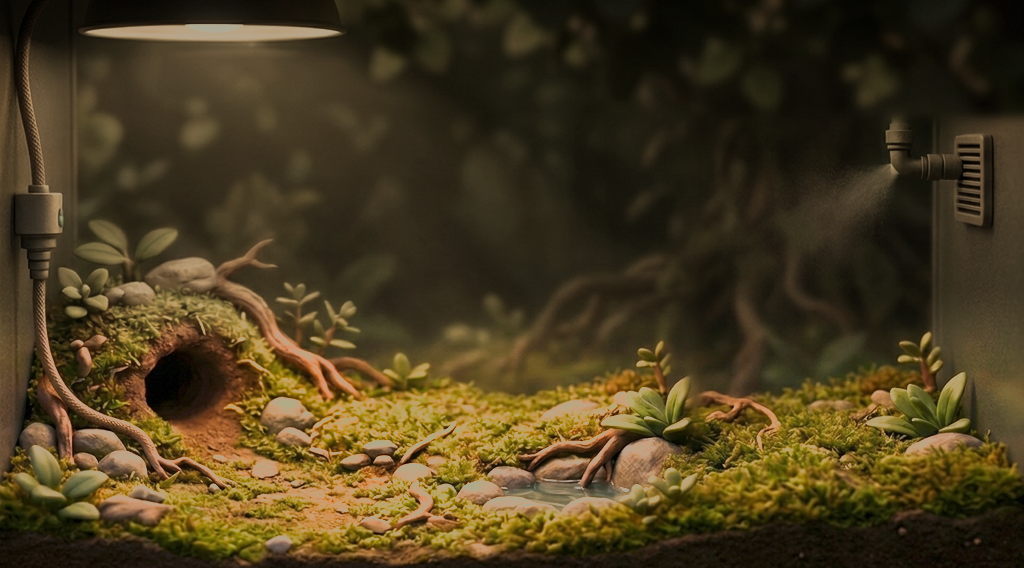
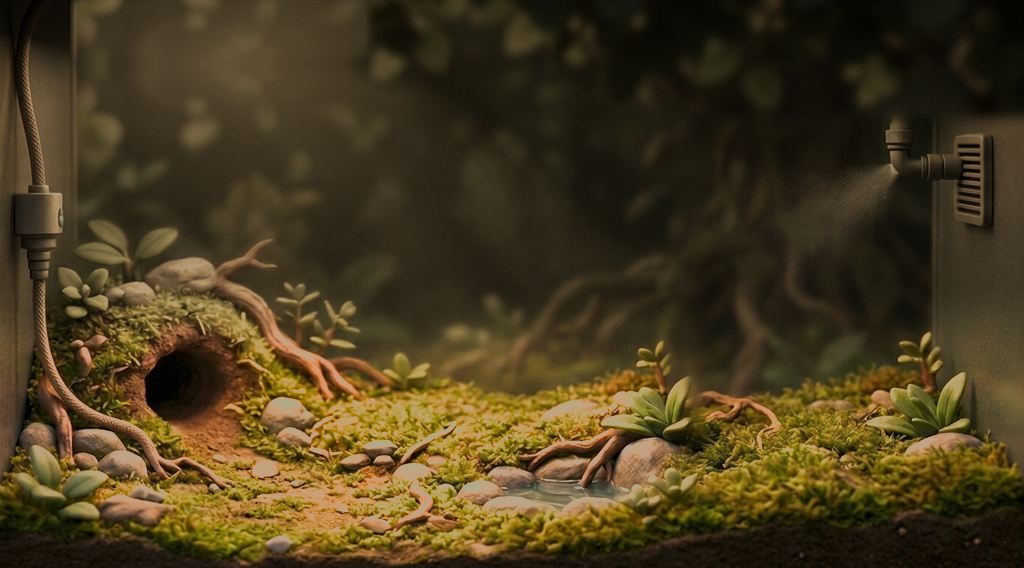
Pods masters pass 121: Idle's night, the lamp hood painted out

Changed region(s): [[0.0625, 0.0, 0.375, 0.0898]]

diff --git a/art/station-masters/pods/tools/nightrepaint.py b/art/station-masters/pods/tools/nightrepaint.py
@@ -14,6 +14,16 @@ def cut(path, w, h):
 man = json.load(open("slices/manifest.json")); rep = {}
 for n, src, w, h, gm, ramp, what in (("idle-vivarium-night-1024x568", "idle-night-repaint", 1024, 568, 330, 90, "Idle's Vivarium by night: a Pro repaint of the signed Idle day under the device's grow lamp dimmed to a low warm glow (the owner-approved repaint of Oct 10; the first night, vivarium-night-r2, is withdrawn)"), ("home-glass-night-640x488", "glass-night-repaint", 640, 488, 268, 88, "Home's glass by night: a Pro repaint of the signed glass day under the dimmed grow lamp (the owner-approved repaint of Oct 10)")):
     im, d = night_dist(cut(f"source/raw/{src}.jpg", w, h), gm, ramp, 0, bg_target=17.0, pool_cap=True, rim_scale=1.0, ground_exact=35.0, bloom=(70.0, 0.0), knee_p=(58.0, 11.5, 8.0)); rep[n] = d
+    if n.startswith("idle"):
+        # the art director's return on pass 119 (the repaint adds a grow-lamp hood at the top left that the day, dawn and dusk do not have): the hood and its lit rim are painted out into the background by hand: the box x 74-365, y 0-64 (the cord at the left edge, x under 75, is kept) is rebuilt from the clean background around it (a normalised multi-scale blur of the pixels under and beside it, sigma 4, 10, 24, plus the picture's own grain), feathered 5 px; the warm light the lamp casts below it is kept
+        a_ = np.asarray(im).astype(float); H_, W_, _ = a_.shape; hole = np.zeros((H_, W_), bool); hole[0:64, 74:366] = True
+        def gb(x, sg):
+            fy = np.fft.fftfreq(x.shape[0])[:, None]; fx = np.fft.rfftfreq(x.shape[1])[None, :]; return np.fft.irfft2(np.fft.rfft2(x) * np.exp(-2 * (np.pi * sg) ** 2 * (fx ** 2 + fy ** 2)), x.shape)
+        fill = a_.copy(); fill[0:64] = a_[127:63:-1]                      # the rows 64-127 of the picture just below, mirrored about y 63.5: the background's own foliage and tone continue upward (the cord, x under 74, and the wall are kept)
+        # the mirrored rows are matched to the rows under the hole's lower edge: a per-column offset, smoothed, taken out so there is no step
+        edge = a_[64:70, :].mean(0) - fill[58:64, :].mean(0); edge = np.stack([gb(np.repeat(edge[None, :, c], 8, 0), 6.0)[0] for c in range(3)], -1); fill[0:64] = fill[0:64] + edge[None, :, :] * np.linspace(0.2, 1.0, 64)[:, None, None]
+        rng = np.random.default_rng(31); grain = np.zeros_like(a_); fm = np.clip(gb(hole.astype(float), 6.0) * 1.8, 0, 1)[..., None]; fm[:, :70] = 0
+        a_ = a_ * (1 - fm) + (fill + grain) * fm; im = Image.fromarray(a_.clip(0, 255).astype(np.uint8))
     im.save(f"slices/{n}.png", optimize=True)
     man[n] = {"size": [w, h], "rect": None, "src": f"source/raw/{src}.jpg (gemini-3-pro-image)", "made": what + ", centre-cut and reduced with Lanczos, then regraded by hand within the night targets (background about 17, ground 35, at most 3 percent above L* 70) (pass 119)", "sha256": hashlib.sha256(open(f"slices/{n}.png", "rb").read()).hexdigest()}
 json.dump(man, open("slices/manifest.json", "w"), indent=1); print(json.dumps(rep))

diff --git a/art/station-masters/pods/tools/status.py b/art/station-masters/pods/tools/status.py
@@ -38,7 +38,7 @@ AD_RECORDS = {
  "bud-ready-front-128x160": ('new', None, "pass 120: the bean remapped by hand row by row onto a 112x140 ellipse (bottom y 152, centred x 64; no waist, the shading kept), late, ready, front, cracks and bud-small re-cut from it; the ready shape (a bark placeholder at its 112x112 box, multiplied at 45 percent inside the bean) shows through the skin in the proof; awaiting the art director's judgement (not signed)"),
  "bud-crack-1-128x160": ('new', None, "pass 120: the bean remapped by hand row by row onto a 112x140 ellipse (bottom y 152, centred x 64; no waist, the shading kept), late, ready, front, cracks and bud-small re-cut from it; the ready shape (a bark placeholder at its 112x112 box, multiplied at 45 percent inside the bean) shows through the skin in the proof; awaiting the art director's judgement (not signed)"),
  "bud-crack-2-128x160": ('new', None, "pass 120: the bean remapped by hand row by row onto a 112x140 ellipse (bottom y 152, centred x 64; no waist, the shading kept), late, ready, front, cracks and bud-small re-cut from it; the ready shape (a bark placeholder at its 112x112 box, multiplied at 45 percent inside the bean) shows through the skin in the proof; awaiting the art director's judgement (not signed)"),
- "idle-vivarium-night-1024x568": ('new', None, "returned (art director) at 1x: L* 24.9, key R-B 47, sat 58, 0.0 percent above L* 70, background 17.6, ground 35.0 all pass and it reads as night; but the repaint adds a grow-lamp hood at the top left that the day, dawn and dusk do not have, so Idle's light change would make an object appear; paint the hood and its rim out into the background by hand, keep its light"),
+ "idle-vivarium-night-1024x568": ('new', None, "pass 121: the grow-lamp hood and its lit rim painted out into the background by hand (the rows below mirrored up, matched at the seam, feathered), the light kept; the glass night and the bed (signed) untouched; awaiting the art director's judgement (not signed)"),
  "home-glass-night-640x488": ('signed', 'art director, verdict (2cc0e62f)', 'signed (art director) at 1x: L* 25.6, key R-B 46, sat 51, 0.0 percent above L* 70, R above B, background 17.9, ground 35.0, against the revised night rule (mean 24-28, bg 12-18, ground 30-36); the Pro night repaint of the signed glass day, the composition kept'),
  "home-bed-night-192x56": ('signed', 'art director, verdict (2cc0e62f)', 'signed (art director) at 1x: L* 28.1, key R-B 80, sat 78 against its glass night 25.6/46 (limits: L* +3, R-B +40)'),
  "leaf-empty-8x12": ('signed', 'art director, verdict (d09acb12; palette and tick fixes)', "signed (art director): the small leaf's outline recoloured to bevel #565c63 (the Create spec's empty small leaf), palette-exact, 36 px"),

diff --git a/art/station-masters/pods/README.md b/art/station-masters/pods/README.md
@@ -132,7 +132,7 @@ Each slice is named by the register id it replaces (`room`, `ring`, `page`, `tra
 | `idle-vivarium-dawn-1024x568` | 1024×568 |  | signed (art director, verdict (d09acb12)): signed (art director) at 1x: L* 40.5, key R-B 37, sat 33 against the dawn rule (key R-B >= 35, L* 38-42); day 43.1/72/48 | Idle's Vivarium by dawn (the owner's decision of Oct 10: the Vivarium gets a dawn, 06:00 to 06:59): a Pro edit of the signed day picture (low cool-gold light from the left, a soft mist over the water and moss, dew on the leaves; paler, cleaner and cooler than dusk; nothing glowing), cut like the others, the canopy seams blended by hand (pass 104); graded and given a gold tint by hand (tools/dawntint.py: the lit pixels warmed, the level set to a mean L* of 40.5) |
 | `idle-vivarium-day-1024x568` | 1024×568 |  | signed (art director, Idle verdict (62bbd883)): Idle's Vivarium by light, seams softened in pass 96; signed at 1x: L* 43.1, key R-B 72, sat 48 (the day reference) | Idle's Vivarium by day: a Pro painting of the vivarium alone (canopy band on top, ground band with burrow, water, stones and moss, feed line, mister and vent at the edges, no creatures), cropped to 1024:568 and reduced with Lanczos (pass 94) |
 | `idle-vivarium-dusk-1024x568` | 1024×568 |  | signed (art director, Idle verdict (62bbd883)): Idle's Vivarium by light, seams softened in pass 96; signed at 1x: L* 40.1, key R-B 74, sat 56 (the dusk reference) | Idle's Vivarium by dusk: a Pro painting of the vivarium alone (canopy band on top, ground band with burrow, water, stones and moss, feed line, mister and vent at the edges, no creatures), cropped to 1024:568 and reduced with Lanczos (the day picture's edit: dusk is warmer and lower) (pass 94) |
-| `idle-vivarium-night-1024x568` | 1024×568 |  | new: returned (art director) at 1x: L* 24.9, key R-B 47, sat 58, 0.0 percent above L* 70, background 17.6, ground 35.0 all pass and it reads as night; but the repaint adds a grow-lamp hood at the top left that the day, dawn and dusk do not have, so Idle's light change would make an object appear; paint the hood and its rim out into the background by hand, keep its light | Idle's Vivarium by night: a Pro repaint of the signed Idle day under the device's grow lamp dimmed to a low warm glow (the owner-approved repaint of Oct 10; the first night, vivarium-night-r2, is withdrawn), centre-cut and reduced with Lanczos, then regraded by hand within the night targets (background about 17, ground 35, at most 3 percent above L* 70) (pass 119) |
+| `idle-vivarium-night-1024x568` | 1024×568 |  | new: pass 121: the grow-lamp hood and its lit rim painted out into the background by hand (the rows below mirrored up, matched at the seam, feathered), the light kept; the glass night and the bed (signed) untouched; awaiting the art director's judgement (not signed) | Idle's Vivarium by night: a Pro repaint of the signed Idle day under the device's grow lamp dimmed to a low warm glow (the owner-approved repaint of Oct 10; the first night, vivarium-night-r2, is withdrawn), centre-cut and reduced with Lanczos, then regraded by hand within the night targets (background about 17, ground 35, at most 3 percent above L* 70) (pass 119) |
 | `leaf-empty-16x20` | 16×20 |  | signed (art director, verdict (d09acb12; palette and tick fixes)): signed (art director): the leaf's outline recoloured to metal #8a947b (the Incubator spec's empty leaf), palette-exact, 75 px | the leaf, empty, hand-pixelled 16x20: one ovate pointed leaf leaning about 40 degrees clockwise (the tip at the upper right), a centre vein, a short curved stem at the lower left; a one-pixel outline in metal #8a947b (16x20) or bevel #565c63 (8x12) (pass 111) |
 | `leaf-empty-8x12` | 8×12 |  | signed (art director, verdict (d09acb12; palette and tick fixes)): signed (art director): the small leaf's outline recoloured to bevel #565c63 (the Create spec's empty small leaf), palette-exact, 36 px | the leaf, empty, hand-pixelled 8x12: one ovate pointed leaf leaning about 40 degrees clockwise (the tip at the upper right), a centre vein, a short curved stem at the lower left; a one-pixel outline in metal #8a947b (16x20) or bevel #565c63 (8x12) (pass 111) |
 | `leaf-full-16x20` | 16×20 |  | signed (art director, verdict (d09acb12)): signed (art director): hand-pixelled, palette-exact, the spec's leaf (sage, sageD vein) | the leaf, full, hand-pixelled 16x20: one ovate pointed leaf leaning about 40 degrees clockwise (the tip at the upper right), a centre vein, a short curved stem at the lower left; sage #84ae78 with a sageD #5d7a5f vein (pass 111) |
@@ -791,6 +791,10 @@ The Station art director's dawn fix (returned to `new` after a 1x check: the key
 | `home-glass-night-640x488` | 30.6 | (121, 99, 68) | 53 | 53 |
 
 Honest notes: the dawns' saturation (33, 36, 42) stays under the day's (48, 57, 50) and the dusk's (56, 62, 62); the key R-B reaches the asked 35 but not the day's 74. The night glass and the other lights are unchanged.
+
+## Pass 121 - Idle's night, the lamp hood painted out (no paid call)
+
+The art director's return on pass 119 (the glass night and the bed signed): the repaint added a grow-lamp hood at the top left that the day, dawn and dusk do not have. [`tools/nightrepaint.py`](tools/nightrepaint.py) now paints the hood and its lit rim out by hand: the box x 74-365, y 0-64 is rebuilt from the picture's own rows 64-127 just below, mirrored about y 63.5 so the foliage and tone continue upward, matched to the rows under the box by a smoothed per-column offset and feathered; the cord at the left edge and the warm light cast below are kept. The signed glass night and bed are byte-identical. New hash (sha256 prefix) 3dd1077137c0; `new`. 1x (the art director's measure): | `idle-vivarium-night-1024x568` | 25.0 | (99, 82, 53) | 45 | 58 |; still 0.0 percent above L* 70, R above B. Honest note: a faint darker vertical edge shows at x 366 where the filled foliage meets the original.
 
 ## Pass 120 - the bud as an oval and Create's stage from the Incubator's, by hand (no paid call)
 
